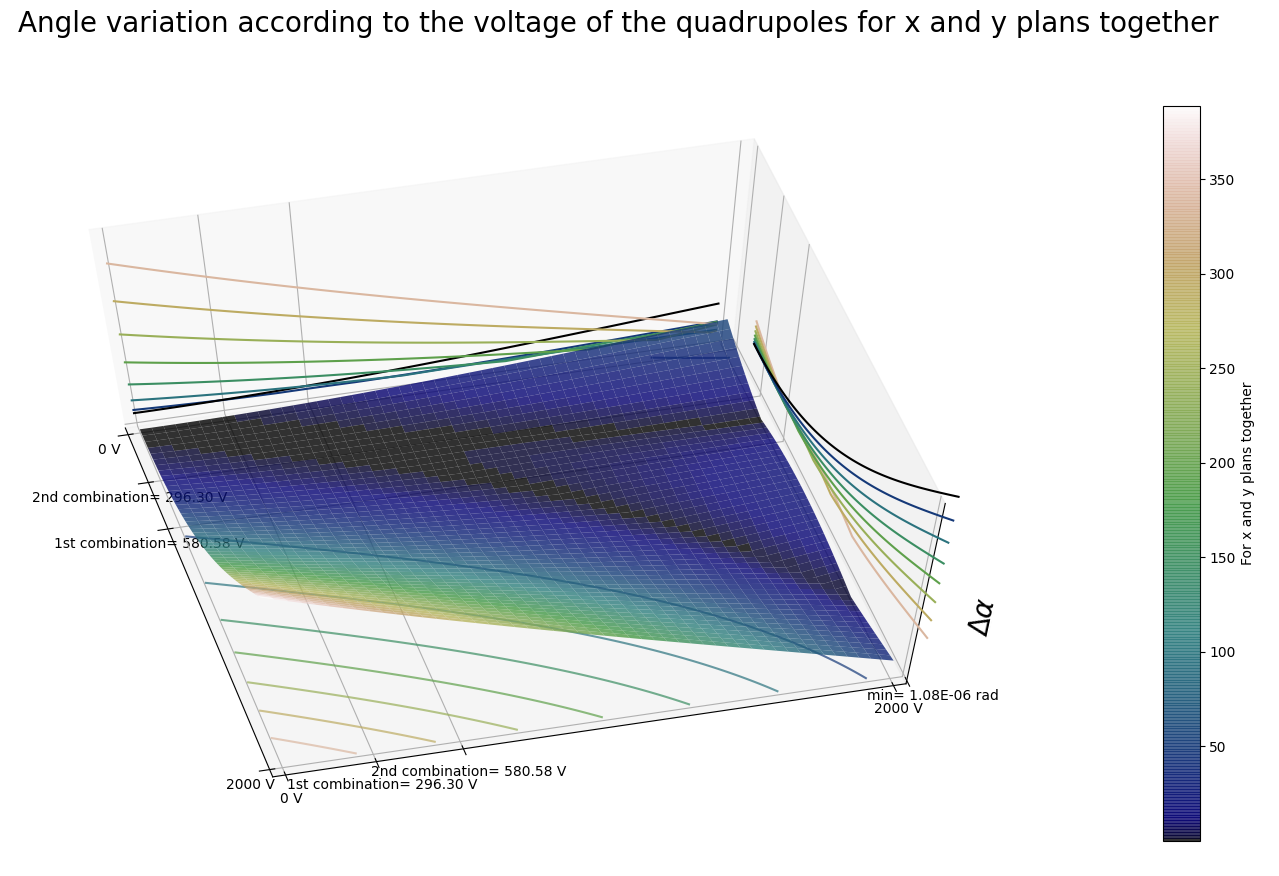
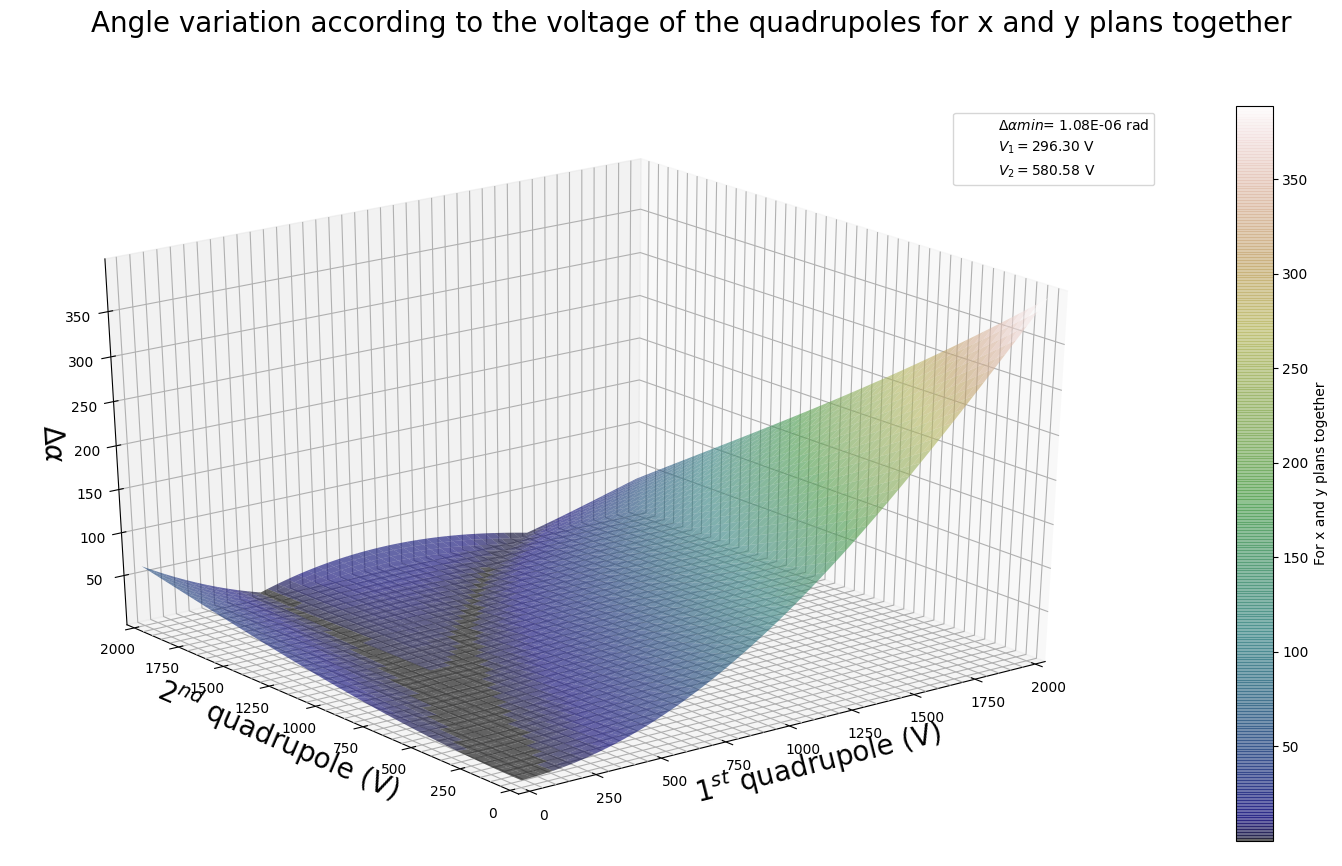
23/07

diff --git a/voltage_optimisation.py b/voltage_optimisation.py
@@ -8,6 +8,7 @@ creation : 20/07/2020
 
 from mpl_toolkits.mplot3d import Axes3D
 import matplotlib.pyplot as plt
+from matplotlib.patches import Rectangle
 from matplotlib import cm
 from matplotlib.ticker import LinearLocator, FormatStrFormatter
 import numpy as np
@@ -53,6 +54,16 @@ for i in range(10, parameters.optim_nb_points):
     # ax.set_ylabel('Quadrupole voltage (1st or 2nd) (V)', fontsize=15)
     ax.set_ylim(parameters.optim_min, parameters.optim_max)
     ax.set_zlabel(r'$\Delta \alpha$', fontsize=20)
+    ax.set_xlabel(r'$1^{st}$ quadrupole (V)', fontsize=20)
+    ax.set_ylabel(r'$2^{nd}$ quadrupole (V)', fontsize=20)
+
+    plt.grid(which='both')
+    plt.grid(which='minor', alpha=0.3, linestyle='--')
+    grid_x_ticks = np.arange(parameters.optim_min, parameters.optim_max, 50)
+    grid_y_ticks = np.arange(parameters.optim_min, parameters.optim_max, 50)
+
+    ax.set_xticks(grid_x_ticks, minor=True)
+    ax.set_yticks(grid_y_ticks, minor=True)
 
     zmin = np.where(z == np.amin(z))
     xmin = x[zmin][0]
@@ -61,21 +72,17 @@ for i in range(10, parameters.optim_nb_points):
     print(f'{xmin:.2f} ({i}/{parameters.optim_nb_points})')
 
 
-ax.set_xticks([parameters.optim_min, ymin, abs(xmin), parameters.optim_max])
-ax.set_xticklabels([f'{parameters.optim_min} V', f'1st combination= {ymin:.2f} V', f'2nd combination= {abs(xmin):.2f} V', f'{parameters.optim_max} V'])
+extra1 = Rectangle((0, 0), 1, 1, fc="w", fill=False, edgecolor='none', linewidth=0)
+extra2 = Rectangle((0, 0), 1, 1, fc="w", fill=False, edgecolor='none', linewidth=0)
+extra3 = Rectangle((0, 0), 1, 1, fc="w", fill=False, edgecolor='none', linewidth=0)
+
+plt.legend([extra1, extra2, extra3], (fr'$\Delta \alpha min$= {np.amin(z):.2E} rad', fr'$V_1= {abs(xmin):.2f}$ V', fr'$V_2= {abs(ymin):.2f}$ V'))
 
 
-ax.set_yticks([parameters.optim_min, xmin, abs(ymin), parameters.optim_max])
-ax.set_yticklabels([f'{parameters.optim_min} V', f'1st combination= {xmin:.2f} V', f'2nd combination= {abs(ymin):.2f} V', f'{parameters.optim_max} V'])
-
-ax.set_zticks([np.amin(z)])
-ax.set_zticklabels([f'min= {np.amin(z):.2E} rad'])
-
-
-surf = ax.plot_surface(x, y, z, alpha=0.8, cmap=cm.gist_earth)
-cset = ax.contour(x, y, z, zdir='z', alpha=0.7, offset=np.min(z), cmap=cm.gist_earth)
-cset = ax.contour(x, y, z, zdir='y', offset=parameters.optim_max + 100, cmap=cm.gist_earth)
-cset = ax.contour(x, y, z, zdir='x', offset=parameters.optim_min - 100, cmap=cm.gist_earth)
+surf = ax.plot_surface(x, y, z, alpha=0.6, cmap=cm.gist_earth, antialiased=True)
+#cset = ax.contour(x, y, z, zdir='z', alpha=0.7, offset=np.min(z), cmap=cm.gist_earth)
+#cset = ax.contour(x, y, z, zdir='y', offset=parameters.optim_max + 100, cmap=cm.gist_earth)
+#cset = ax.contour(x, y, z, zdir='x', offset=parameters.optim_min - 100, cmap=cm.gist_earth)
 
 cbar = fig.colorbar(surf, cmap=cm.gist_earth)
 cbar.set_label('For x and y plans together')
